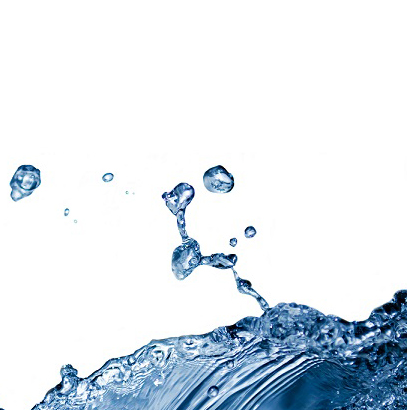
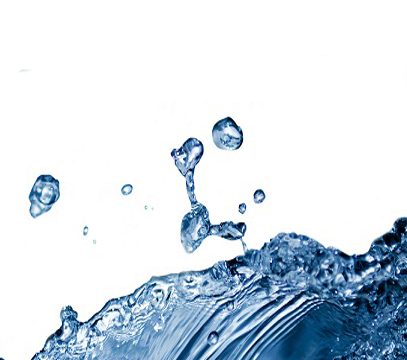
changes
changes

diff --git a/index.html b/index.html
@@ -25,8 +25,11 @@
 		<img src="img/logo1.png" class="img-responsive logo_style">
 		<label class="logo_text"></label>
 	</a>
+	
+	
 	<button class="navbar-toggler navbar-toggler-right" type="button" data-toggle="collapse" data-target="#navbarNav" aria-controls="navbarNav" aria-expanded="false" aria-label="Toggle navigation">
-    	<span class="navbar-toggler-icon "></span>
+	<a href="#contact"><img src="img/phone-contact.png" class="img-responsive call_icon"></a>
+    	
   	</button>
   	<div class="collapse navbar-collapse elarning_style" id="navbarNav">
     	<ul class="navbar-nav ml-auto">
@@ -34,7 +37,7 @@
 				<a class="nav-link" href="#">Home<span class="sr-only">(current)</span></a>
 			</li>
 			<li class="nav-item">
-				<a class="nav-link" href="#about">About Us</a>
+				<a class="nav-link" href="#about">Our Team</a>
 			</li>
 			
 			<li class="nav-item">
@@ -60,16 +63,23 @@
 		<h1 class="text-grey text-center banner_head">Thirst Relief is changing the world through clean water.</h1>
 		<p class="banner_para text-grey text-center">BECOME A THIRST RELIEVER</p>
 		
-			<div class="text-center">
-				<a href="#donation"><button class="btn btn-info donate_btn_two">DONATE</button></a>
-			</div>
-			<div class="text-center">
-				<a href="#Volunteer"><button class="btn btn-info donate_btn_two" style="margin:10px 0 0 0;">VOLUNTEER </button></a>
-			</div>
-		
+	</div><!--banner_part-->
+	
+</div>
+
+<div class="container">
+	<div class="row">
+		<div class="col-sm-12 text-center">
+			<a href="#donation"><button class="btn btn-info donate_btn_two">DONATE</button></a>
+				<a href="#Volunteer"><button class="btn btn-info donate_btn_two1" style="margin:0 0 0 0;">VOLUNTEER </button></a>
+	
+		</div>
 	
 	</div>
 </div>
+
+
+
 <div class="container">
 	<div class="row">
 		<div class="col-sm-12">

diff --git a/style.css b/style.css
@@ -40,7 +40,7 @@
 /*=====================banner part==============*/
 .banner_part{
 	background:url('img/water-1363440165HGc.jpg')repeat-x;
-	min-height:500px;
+	min-height:400px;
 	position:relative;
 }
 .container-my{
@@ -66,6 +66,17 @@
 	font-size:20px;
 	color:#000;
 	font-weight:bold;
+}
+.donate_btn_two1{
+	background:#BCDE12;
+	border:none;
+	border-radius:0;
+	padding:20px;
+	width:180px;
+	font-size:20px;
+	color:#000;
+	font-weight:bold;
+	
 }
 /*===================why part================*/
 .why_head{
@@ -199,7 +210,9 @@ label{
         max-width: 100% !important;
         overflow-x: hidden !important;
     }
-	
+ul{
+	display:none!important;
+}
 .we_img{
 	margin:0 0 0 0!important;
 }
@@ -247,12 +260,12 @@ label{
 	font-family:'head_font';
 }
 .banner_part{
-	background:url('img/water-1363440165HGc.jpg')no-repeat;
-	min-height:400px;
+	background:url('img/water-1363440165HGc1.jpg')no-repeat;
+	min-height:350px;
 	position:relative;
 }
 .banner_para{
-	font-size:20px;
+	font-size:25px;
 	color:#4F4F4F;
 }
 .banner_head{
@@ -266,10 +279,23 @@ label{
 	border:none;
 	border-radius:4px;
 	padding:20px;
-	width:200px;
+	width:150px;
 	font-size:20px;
 	color:#000;
 	font-weight:bold;
+	float:left;
+}
+.donate_btn_two1{
+	background:#BCDE12;
+	border:none;
+	border-radius:4px;
+	padding:20px;
+	width:170px;
+	font-size:20px;
+	color:#000;
+	font-weight:bold;
+	float:right;
+
 }
 /*================footer part================*/
 .footer_part{
@@ -366,6 +392,9 @@ label{
 	text-align:left!important;
 	font-size:18px;
 	padding:0 0 40px 0;
+}
+.call_icon{
+	margin:10px 0 0 0;
 }
 
 }
